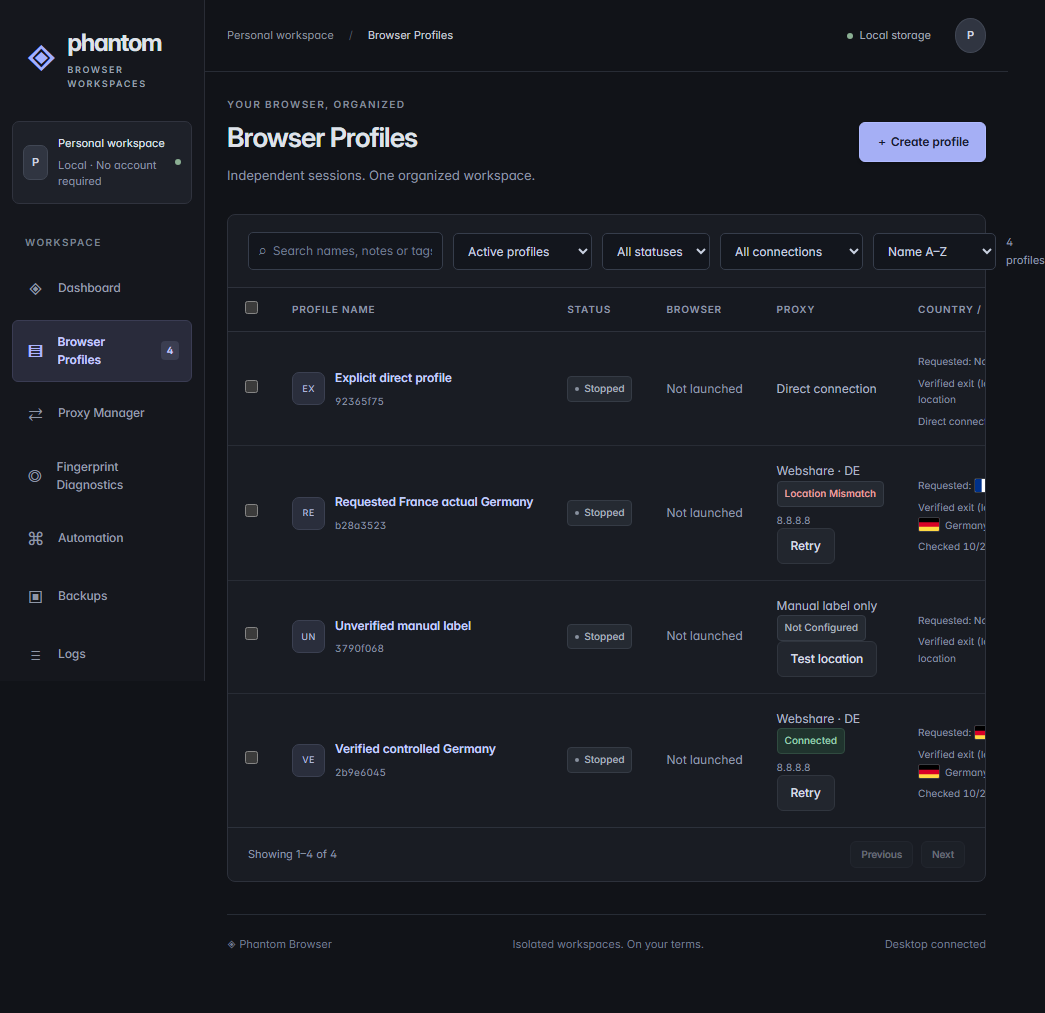
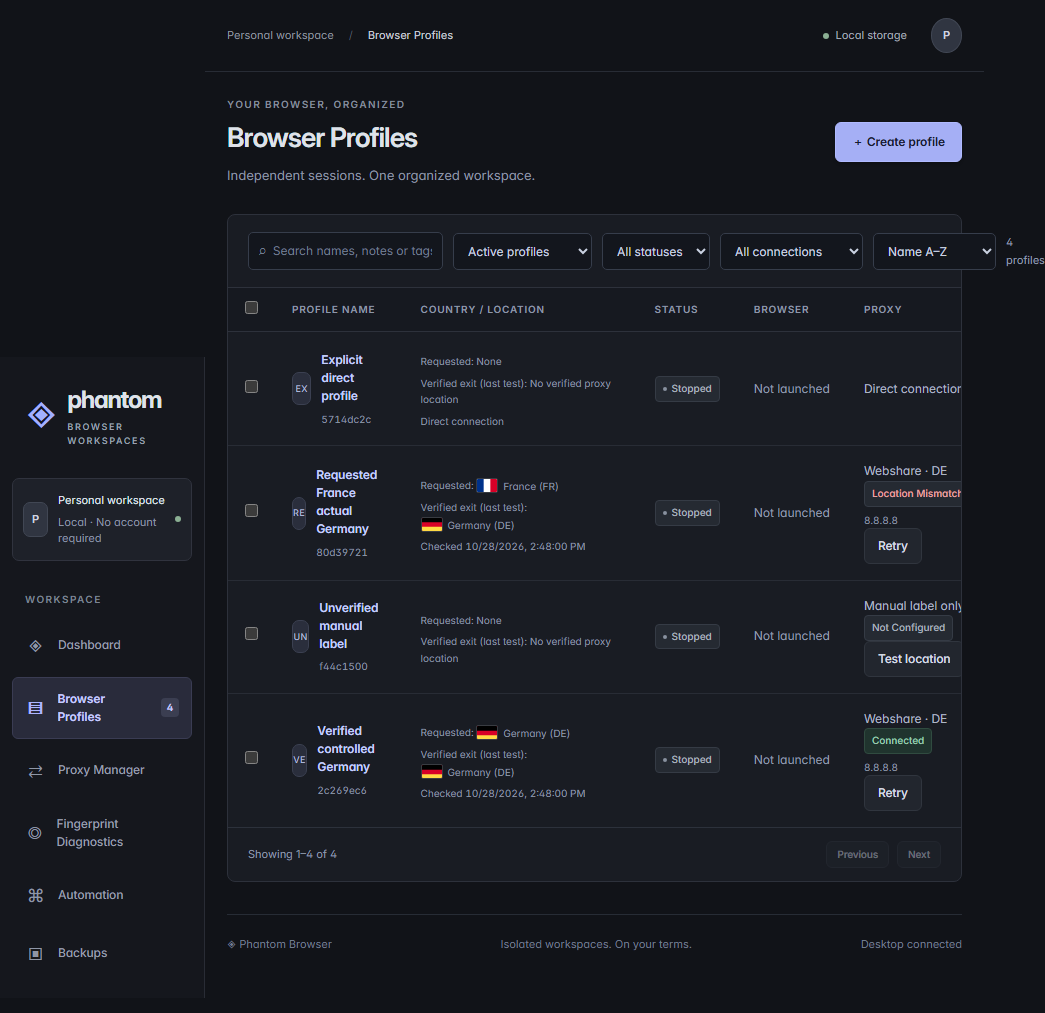
docs: record verified dev.3 installer and installed country-location evidence

diff --git a/docs/COUNTRY_LOCATION_FIX_REPORT.md b/docs/COUNTRY_LOCATION_FIX_REPORT.md
@@ -23,12 +23,12 @@ No installed executable, installed version, provider account or network trace wa
 - Requested flags are clearly labelled as user intent. Detected flags require a proxy assignment and successful observed country/IP result. Direct, unknown, pending and failed routes show no verified exit flag. Saved proxy region labels do not become geolocation.
 - Statuses show Not configured, Connecting, Connected, Failed and Location mismatch, with authentication/location-unavailable details. Retry is available directly in the profile row. Failed retries clear obsolete observed flags but retain the assignment and requested country.
 
-## Verification so far
+## Verification
 
 - Local Linux: typecheck, lint, build and pinned runtime verification passed; **165 unit cases / 18 files**, **35 browser/integration cases passed + 1 existing Windows-only TLS skip**, **8 actual Electron cases passed + 1 existing Windows DPAPI skip**.
 - New built-renderer test uses the real request dispatcher and Service, a controlled provider inventory, a real authenticated local HTTP proxy, and explicitly synthetic geo response data. It selects Germany in the actual built form, automatically connects, saves the profile, checks persisted code/name/assignment, displays actual SVG images, launches through the assigned proxy and proves additional proxy forwarding. A changed synthetic exit produces a US-vs-Germany mismatch. Separate built-form cases cover missing provider, empty inventory and provider outage with zero unintended direct profiles.
 - Actual Electron table test uses a real temporary SQLite database populated by actual controlled proxy verification, then checks connected, shared-profile mismatch, unverified manual labels and direct rows. It verifies flags load offline, restarts the application, and checks failed Retry retains proxy assignment and clears the detected flag.
-- The same table regression is added to the **installed Windows EXE** suite. Review of the initial installed-Windows screenshot caught horizontal clipping on the hosted screen. Country/Location now sits beside the name, long names wrap, and the real app/EXE test asserts an observed flag is in the minimum 1000×680 viewport without horizontal scrolling (ordinary vertical scrolling to the row is allowed). Final hosted Windows build/install evidence is recorded below when available; it must not be inferred from Linux or from a source-only renderer test.
+- The same table regression is added to the **installed Windows EXE** suite. Review of the initial installed-Windows screenshot caught horizontal clipping on the hosted screen. Country/Location now sits beside the name, long names wrap, and the real app/EXE test asserts an observed flag is in the minimum 1000×680 viewport without horizontal scrolling (ordinary vertical scrolling to the row is allowed). Final hosted Windows build/install evidence is recorded below; it is independent of Linux and source-only renderer tests.
 
 The screenshot `country-location-controlled.png` contains explicitly synthetic country/IP data from the controlled test. It is not a paid-provider or real-world US/Germany exit claim.
 
@@ -37,3 +37,29 @@ The screenshot `country-location-controlled.png` contains explicitly synthetic c
 For real country-managed profiles, configure your own **Webshare API token**, default-plan direct proxies in the requested country, and an **ipapi.co production subscription key** in Settings. A GitHub token is not a provider credential. Do not paste provider secrets into chat. No paid provider/geolocation accounts were available for this task; live subscription acceptance remains unrun. No proxy traffic purchase or rotating residential/backbone integration is implied. See [LOCATION_SETUP.md](LOCATION_SETUP.md).
 
 Manual Windows 10/11 install/upgrade/uninstall, executable-signature qualification and public-network leak certification remain outside the hosted tests. Existing main, releases and tags are not modified.
+
+## Final Windows build and installed-application qualification
+
+- Exact application source: **`9e80952f91c079fe1f6ad761b5e2bef30c7d0d4b`** on `feat/local-workspaces-v0.2`. Documentation/screenshot follow-ups do not change application code, tests, dependencies, or CI.
+- [Full Linux + Windows CI run **40707818072**](https://github.com/laiss3r/phantom-browser-premium/actions/runs/40707818072): **both jobs completed successfully**.
+- Windows: **161 unit cases passed, 4 existing Linux-only process-inspection cases skipped**; 12 runtime cases passed; **36 browser/integration cases passed**; **9 actual Electron cases passed**; installer build and silent installation passed; **4 installed-EXE cases passed**, including the country-table/minimum-window test. No assertion was removed/forced and no new case was skipped for Windows.
+- Local final-source Linux checks: **165 unit cases / 18 files**, **35 browser cases passed + 1 existing Windows TLS-only skip**, **8 Electron cases passed + 1 existing Windows DPAPI-only skip**, typecheck/lint/build/runtime verification passed. The new UI/actual-proxy tests are included, not separate unverifiable screenshots.
+- [Installed Windows screenshot](country-location-installed-windows.png) and [controlled installed observations](COUNTRY_LOCATION_INSTALLED_OBSERVATIONS.json) were downloaded from this exact CI run. The country flags are visible at minimum window size without horizontal table scrolling. The full-page screenshot includes a vertically scrolled minimum-window view; other retained technical/action columns remain horizontally scrollable. Country/IP data is explicitly synthetic and the proxy is a genuine local fixture, **not a live paid-provider exit**.
+
+### Exact installer
+
+**`Phantom-Browser-Setup-0.2.0-dev.3-x64.exe`** — 297,758,247 bytes.
+
+[Download the exact Windows Setup artifact](https://github.com/laiss3r/phantom-browser-premium/actions/runs/40707818072/artifacts/12825452316) (GitHub login may be required; artifact expiry 2027-01-26T14:37:44Z). Extract the setup executable and accompanying checksum file. This is a CI development artifact, not a newly published release/tag.
+
+Independently verified EXE SHA-256:
+
+```text
[1 lines of base64/hex data omitted]
+```
+
+The downloaded ZIP also matched GitHub's `sha256:ebe244509ef212dd27d47018a5ab9fe9a087d069f787e5e6891317c531aa8e97` digest. Hash integrity is **not code-signature qualification**. The compressed installer was streamed and independently hashed after extraction; this is not merely a copied filename or metadata digest.
+
+To use it: stop your profiles and exit all old Phantom windows normally, install the exact artifact above without deleting app data, reopen and confirm **v0.2.0-dev.3** in the sidebar. Open Browser Profiles and look for **Country / Location beside the name**. Earlier directly created profiles remain direct; no missing country choice is guessed or retroactively invented. Configure the two service credentials in Settings before requesting a real country-based connection. Actual consumer-Windows upgrade/uninstall and live paid-provider acceptance remain outstanding.
+
+Machine-readable results, artifact identity, log hashes and the exact installer hash are in [COUNTRY_LOCATION_FIX_EVIDENCE.json](COUNTRY_LOCATION_FIX_EVIDENCE.json). The companion `phantom-country-location-evidence.zip` preserves full logs and the report/screenshots; `phantom-country-location.bundle` preserves source history. Main, original releases and tags remain unchanged.

diff --git a/README.md b/README.md
@@ -1,12 +1,14 @@
+> **Country flags/location fix — 0.2.0-dev.3:** automatic country proxy assignment, persistent country metadata, visible requested/verified SVG flags and truthful Retry. [Exact new installer, hashes and installed-Windows verification](docs/COUNTRY_LOCATION_FIX_REPORT.md). Old release installers do not contain this fix.
+
 > **Country-based core workflow:** profile creation now defaults to name/location with actual Webshare direct-endpoint selection and proxied IP-country verification. Requires your own provider account; production geolocation requires a subscription key. See [setup](docs/LOCATION_SETUP.md), [audit](docs/GOLOGIN_PARITY_AUDIT.md) and [implementation/results](docs/GOLOGIN_PARITY_REPORT.md). This is workflow parity where supported, **not** native fingerprint/undetectability equivalence.
 
 > **Current development home:** [laiss3r/phantom-browser-premium](https://github.com/laiss3r/phantom-browser-premium). Includes the beginner workflow upgrade and locally bundled premium Inter typography. See [typography and verification](docs/PREMIUM_TYPOGRAPHY.md) and the [beginner guide](docs/BEGINNER_GUIDE.md). This remains an unsigned development project; new Windows CI/manual qualification is tracked separately. The pinned browser still needs a reviewed security-patch update.
 
-> **Unreleased remediation candidate: 0.2.0-dev.2.** New screenshot privacy, durable-write rollback, fingerprint observation and recovery fixes are described in [the remediation report](docs/REMEDIATION_REPORT.md). This import creates no release or tag; the original repository and its releases remain untouched. Published v0.2.0-dev.1 report PNGs may contain fixed-position content outside the old DOM mask: treat old reports as sensitive.
+> **Earlier remediation candidate (historical): 0.2.0-dev.2.** New screenshot privacy, durable-write rollback, fingerprint observation and recovery fixes are described in [the remediation report](docs/REMEDIATION_REPORT.md). This import creates no release or tag; the original repository and its releases remain untouched. Published v0.2.0-dev.1 report PNGs may contain fixed-position content outside the old DOM mask: treat old reports as sensitive.
 
 # Phantom Browser — local Windows browser workspaces
 
-Free, local-first Electron + React + SQLite + Playwright Chromium profile manager. No account, cloud service, paid API or telemetry. **Not a stealth/anonymity product or an independently audited security tool.**
+Free, local-first Electron + React + SQLite + Playwright Chromium profile manager. Direct local profiles require no account, cloud service or paid API; there is no telemetry. Optional country-based proxy routing requires your own provider and production geolocation subscriptions. **Not a stealth/anonymity product or an independently audited security tool.**
 
[1 lines of base64/hex data omitted]
 

diff --git a/docs/GOLOGIN_PARITY_REPORT.md b/docs/GOLOGIN_PARITY_REPORT.md
@@ -1,3 +1,5 @@
+> **Follow-up:** Country/Location table, offline flags and automatic country selection are corrected in 0.2.0-dev.3. See [current fix/build evidence](COUNTRY_LOCATION_FIX_REPORT.md). The results below remain the historical parity implementation record.
+
 # Core GoLogin-style workflows — implementation report
 
 Date: 2026-10-28. Repository: https://github.com/laiss3r/phantom-browser-premium . Branch: `feat/local-workspaces-v0.2`. Baseline: `fda0ddb`. Implemented source: `3ecdf684e0f2818fe05e6f79f49f566bdf23f0b7`; minimum-window navigation fix and final application source: **`0e4f7fc1e66ab5b98e3b4cfcb48714f3a6b031d0`**. A following documentation-only commit supplies this report and evidence.
